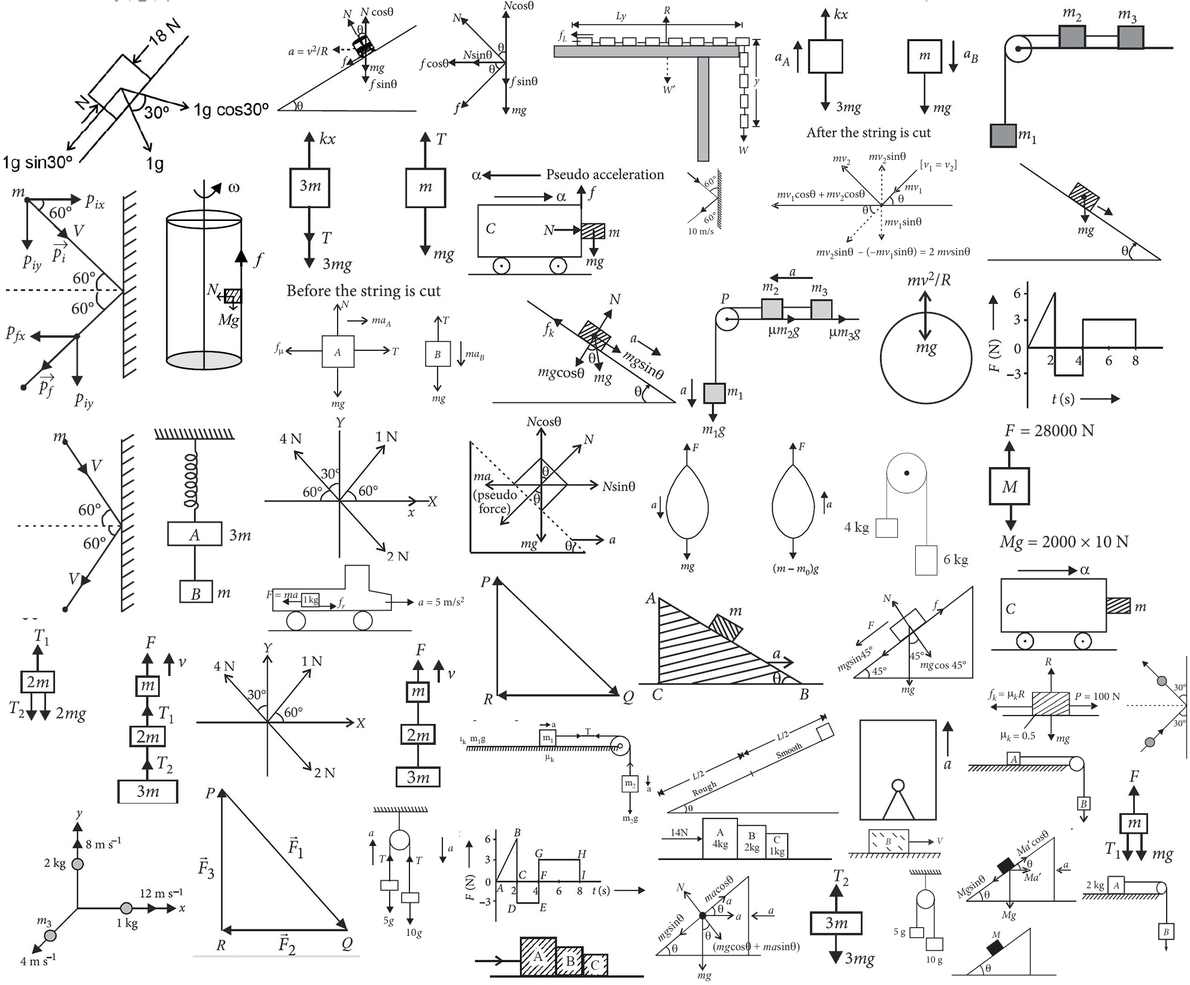
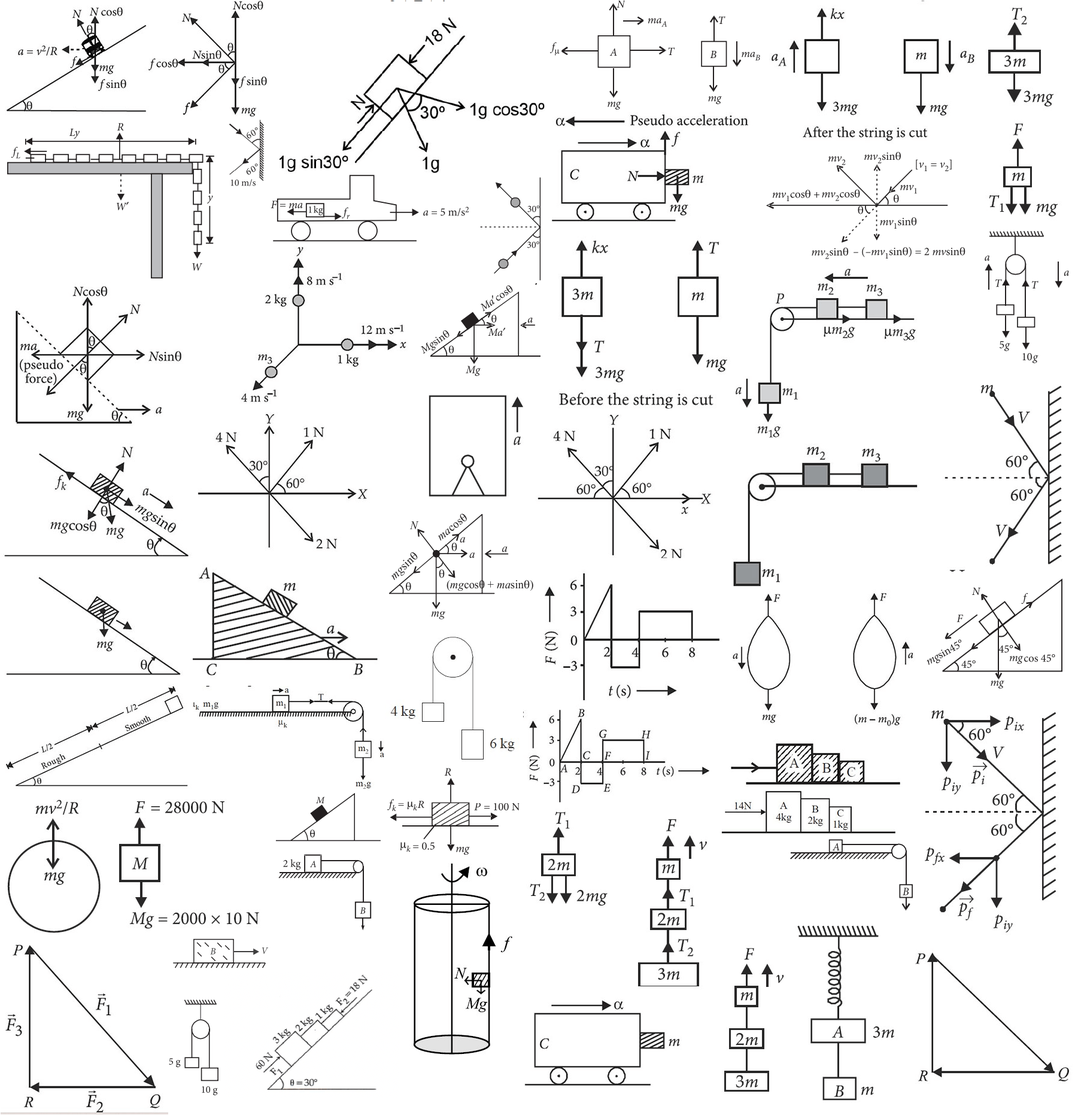
Fixed.

diff --git a/img/medical/neet/phchap/ph_xi_ch4.css b/img/medical/neet/phchap/ph_xi_ch4.css
@@ -8,160 +8,163 @@ Responsive: <div class="yourspritesname"></div>
 
 
 .LOM_33_q {max-width:167px; max-height:62px; }
-.LOM_33_q::after {content: '\00a0';display: inline-block; width:167px; height:62px; background-position: 77.42998352553542% 86.98673404927354%;background-size: 1190.4191616766468% 2653.2258064516127%;background-image: url(ph_xi_ch4.png);padding: 0; }
+.LOM_33_q::after {content: '\00a0';display: inline-block; width:167px; height:62px; background-position: 17.311233885819522% 86.6740699611327%;background-size: 1075.4491017964071% 3004.8387096774195%;background-image: url(ph_xi_ch4.png);padding: 0; }
 div.LOM_33_q::after {max-width:167px; width:100%;height:0;padding: 0 0 37.125748502994014% 0;}
 .LOM_34_s {max-width:113px; max-height:181px; }
-.LOM_34_s::after {content: '\00a0';display: inline-block; width:113px; height:181px; background-position: 99.94666666666667% 74.4535519125683%;background-size: 1759.2920353982302% 908.8397790055249%;background-image: url(ph_xi_ch4.png);padding: 0; }
+.LOM_34_s::after {content: '\00a0';display: inline-block; width:113px; height:181px; background-position: 47.17765894236482% 17.300832342449464%;background-size: 1589.3805309734514% 1029.2817679558011%;background-image: url(ph_xi_ch4.png);padding: 0; }
 div.LOM_34_s::after {max-width:113px; width:100%;height:0;padding: 0 0 160.1769911504425% 0;}
 .LOM_35_s {max-width:251px; max-height:204px; }
-.LOM_35_s::after {content: '\00a0';display: inline-block; width:251px; height:204px; background-position: 62.63672999424295% 99.93060374739764%;background-size: 792.0318725099602% 806.3725490196078%;background-image: url(ph_xi_ch4.png);padding: 0; }
+.LOM_35_s::after {content: '\00a0';display: inline-block; width:251px; height:204px; background-position: 41.61812297734628% 50.39180229053647%;background-size: 715.5378486055777% 913.2352941176471%;background-image: url(ph_xi_ch4.png);padding: 0; }
 div.LOM_35_s::after {max-width:251px; width:100%;height:0;padding: 0 0 81.27490039840637% 0;}
 .LOM_36_s {max-width:169px; max-height:145px; }
-.LOM_36_s::after {content: '\00a0';display: inline-block; width:169px; height:145px; background-position: 98.90049477735019% 96.66666666666667%;background-size: 1176.3313609467455% 1134.4827586206898%;background-image: url(ph_xi_ch4.png);padding: 0; }
+.LOM_36_s::after {content: '\00a0';display: inline-block; width:169px; height:145px; background-position: 28.088506453595574% 82.36321303841676%;background-size: 1062.7218934911243% 1284.8275862068965%;background-image: url(ph_xi_ch4.png);padding: 0; }
 div.LOM_36_s::after {max-width:169px; width:100%;height:0;padding: 0 0 85.79881656804734% 0;}
 .LOM_36_s_1 {max-width:217px; max-height:133px; }
-.LOM_36_s_1::after {content: '\00a0';display: inline-block; width:217px; height:133px; background-position: 91.13495200451722% 82.6058201058201%;background-size: 916.1290322580645% 1236.842105263158%;background-image: url(ph_xi_ch4.png);padding: 0; }
+.LOM_36_s_1::after {content: '\00a0';display: inline-block; width:217px; height:133px; background-position: 83.40721975934136% 80.69364161849711%;background-size: 827.6497695852535% 1400.751879699248%;background-image: url(ph_xi_ch4.png);padding: 0; }
 div.LOM_36_s_1::after {max-width:217px; width:100%;height:0;padding: 0 0 61.29032258064516% 0;}
 .LOM_36_s_2 {max-width:362px; max-height:185px; }
-.LOM_36_s_2::after {content: '\00a0';display: inline-block; width:362px; height:185px; background-position: 27.85977859778598% 34.38356164383562%;background-size: 549.171270718232% 889.1891891891892%;background-image: url(ph_xi_ch4.png);padding: 0; }
+.LOM_36_s_2::after {content: '\00a0';display: inline-block; width:362px; height:185px; background-position: 63.73779637377964% 0.05959475566150179%;background-size: 496.1325966850829% 1007.027027027027%;background-image: url(ph_xi_ch4.png);padding: 0; }
 div.LOM_36_s_2::after {max-width:362px; width:100%;height:0;padding: 0 0 51.10497237569061% 0;}
 .LOM_40_s {max-width:227px; max-height:158px; }
-.LOM_40_s::after {content: '\00a0';display: inline-block; width:227px; height:158px; background-position: 93.46961953435547% 73.30195023537324%;background-size: 875.7709251101321% 1041.139240506329%;background-image: url(ph_xi_ch4.png);padding: 0; }
+.LOM_40_s::after {content: '\00a0';display: inline-block; width:227px; height:158px; background-position: 40.981516889738685% 74.7800586510264%;background-size: 791.1894273127754% 1179.113924050633%;background-image: url(ph_xi_ch4.png);padding: 0; }
 div.LOM_40_s::after {max-width:227px; width:100%;height:0;padding: 0 0 69.60352422907489% 0;}
 .LOM_42_s {max-width:347px; max-height:119px; }
-.LOM_42_s::after {content: '\00a0';display: inline-block; width:347px; height:119px; background-position: 26.691042047531994% 61.730013106159895%;background-size: 572.9106628242075% 1382.3529411764705%;background-image: url(ph_xi_ch4.png);padding: 0; }
+.LOM_42_s::after {content: '\00a0';display: inline-block; width:347px; height:119px; background-position: 30.77984817115252% 16.68577981651376%;background-size: 517.5792507204611% 1565.546218487395%;background-image: url(ph_xi_ch4.png);padding: 0; }
 div.LOM_42_s::after {max-width:347px; width:100%;height:0;padding: 0 0 34.293948126801155% 0;}
 .LOM_45_q {max-width:75px; max-height:123px; }
-.LOM_45_q::after {content: '\00a0';display: inline-block; width:75px; height:123px; background-position: 59.33089388395191% 18.199737187910642%;background-size: 2650.6666666666665% 1337.39837398374%;background-image: url(ph_xi_ch4.png);padding: 0; }
+.LOM_45_q::after {content: '\00a0';display: inline-block; width:75px; height:123px; background-position: 21.499128413712956% 11.264367816091953%;background-size: 2394.6666666666665% 1514.6341463414635%;background-image: url(ph_xi_ch4.png);padding: 0; }
 div.LOM_45_q::after {max-width:75px; width:100%;height:0;padding: 0 0 164% 0;}
 .LOM_45_s {max-width:356px; max-height:193px; }
-.LOM_45_s::after {content: '\00a0';display: inline-block; width:356px; height:193px; background-position: 78.61519607843137% 16.666666666666668%;background-size: 558.4269662921348% 852.3316062176166%;background-image: url(ph_xi_ch4.png);padding: 0; }
+.LOM_45_s::after {content: '\00a0';display: inline-block; width:356px; height:193px; background-position: 88.54166666666667% 14.491017964071856%;background-size: 504.4943820224719% 965.2849740932643%;background-image: url(ph_xi_ch4.png);padding: 0; }
 div.LOM_45_s::after {max-width:356px; width:100%;height:0;padding: 0 0 54.21348314606742% 0;}
 .LOM_46_q {max-width:92px; max-height:183px; }
-.LOM_46_q::after {content: '\00a0';display: inline-block; width:92px; height:183px; background-position: 78.74472573839662% 98.49521203830369%;background-size: 2160.8695652173915% 898.9071038251366%;background-image: url(ph_xi_ch4.png);padding: 0; }
+.LOM_46_q::after {content: '\00a0';display: inline-block; width:92px; height:183px; background-position: 16.549295774647888% 98.69047619047619%;background-size: 1952.1739130434783% 1018.0327868852459%;background-image: url(ph_xi_ch4.png);padding: 0; }
 div.LOM_46_q::after {max-width:92px; width:100%;height:0;padding: 0 0 198.91304347826087% 0;}
 .LOM_46_s {max-width:163px; max-height:248px; }
-.LOM_46_s::after {content: '\00a0';display: inline-block; width:163px; height:248px; background-position: 33.04109589041096% 95.2755905511811%;background-size: 1219.6319018404909% 663.3064516129032%;background-image: url(ph_xi_ch4.png);padding: 0; }
+.LOM_46_s::after {content: '\00a0';display: inline-block; width:163px; height:248px; background-position: 99.93876301285977% 22.910216718266255%;background-size: 1101.840490797546% 751.2096774193549%;background-image: url(ph_xi_ch4.png);padding: 0; }
 div.LOM_46_s::after {max-width:163px; width:100%;height:0;padding: 0 0 152.14723926380367% 0;}
 .LOM_50_q {max-width:181px; max-height:95px; }
-.LOM_50_q::after {content: '\00a0';display: inline-block; width:181px; height:95px; background-position: 87.76978417266187% 99.54838709677419%;background-size: 1098.342541436464% 1731.578947368421%;background-image: url(ph_xi_ch4.png);padding: 0; }
+.LOM_50_q::after {content: '\00a0';display: inline-block; width:181px; height:95px; background-position: 28.29721362229102% 74.60407239819004%;background-size: 992.2651933701658% 1961.0526315789473%;background-image: url(ph_xi_ch4.png);padding: 0; }
 div.LOM_50_q::after {max-width:181px; width:100%;height:0;padding: 0 0 52.48618784530387% 0;}
 .LOM_50_s {max-width:212px; max-height:159px; }
-.LOM_50_s::after {content: '\00a0';display: inline-block; width:212px; height:159px; background-position: 89.3018018018018% 93.0686406460296%;background-size: 937.7358490566038% 1034.5911949685535%;background-image: url(ph_xi_ch4.png);padding: 0; }
+.LOM_50_s::after {content: '\00a0';display: inline-block; width:212px; height:159px; background-position: 43.62373737373738% 27.758215962441316%;background-size: 847.1698113207547% 1171.698113207547%;background-image: url(ph_xi_ch4.png);padding: 0; }
 div.LOM_50_s::after {max-width:212px; width:100%;height:0;padding: 0 0 75% 0;}
 .LOM_61_s {max-width:368px; max-height:275px; }
-.LOM_61_s::after {content: '\00a0';display: inline-block; width:368px; height:275px; background-position: 56.41975308641975% 0.072992700729927%;background-size: 540.2173913043479% 598.1818181818181%;background-image: url(ph_xi_ch4.png);padding: 0; }
+.LOM_61_s::after {content: '\00a0';display: inline-block; width:368px; height:275px; background-position: 0.0700280112044818% 12.34256926952141%;background-size: 488.04347826086956% 677.4545454545455%;background-image: url(ph_xi_ch4.png);padding: 0; }
 div.LOM_61_s::after {max-width:368px; width:100%;height:0;padding: 0 0 74.72826086956522% 0;}
 .LOM_66_s {max-width:257px; max-height:206px; }
-.LOM_66_s::after {content: '\00a0';display: inline-block; width:257px; height:206px; background-position: 80.1848642403235% 67.19944405837387%;background-size: 773.5408560311284% 798.5436893203884%;background-image: url(ph_xi_ch4.png);padding: 0; }
+.LOM_66_s::after {content: '\00a0';display: inline-block; width:257px; height:206px; background-position: 99.87004548408058% 57.694628847314426%;background-size: 698.8326848249027% 904.3689320388349%;background-image: url(ph_xi_ch4.png);padding: 0; }
 div.LOM_66_s::after {max-width:257px; width:100%;height:0;padding: 0 0 80.1556420233463% 0;}
+.neet_re_ph_2022_31 {max-width:292px; max-height:211px; }
+.neet_re_ph_2022_31::after {content: '\00a0';display: inline-block; width:292px; height:211px; background-position: 24.93351063829787% 98.30508474576271%;background-size: 615.068493150685% 882.9383886255924%;background-image: url(ph_xi_ch4.png);padding: 0; }
+div.neet_re_ph_2022_31::after {max-width:292px; width:100%;height:0;padding: 0 0 72.26027397260275% 0;}
 .neet_re_ph_2022_31_sol {max-width:451px; max-height:289px; }
-.neet_re_ph_2022_31_sol::after {content: '\00a0';display: inline-block; width:451px; height:289px; background-position: 0.06506180871828236% 0.07374631268436578%;background-size: 440.79822616407984% 569.204152249135%;background-image: url(ph_xi_ch4.png);padding: 0; }
+.neet_re_ph_2022_31_sol::after {content: '\00a0';display: inline-block; width:451px; height:289px; background-position: 34.34944237918216% 0.06353240152477764%;background-size: 398.22616407982264% 644.636678200692%;background-image: url(ph_xi_ch4.png);padding: 0; }
 div.neet_re_ph_2022_31_sol::after {max-width:451px; width:100%;height:0;padding: 0 0 64.07982261640798% 0;}
 .nt_ph_laws_motion_10 {max-width:320px; max-height:100px; }
-.nt_ph_laws_motion_10::after {content: '\00a0';display: inline-block; width:320px; height:100px; background-position: 45.983213429256594% 99.7411003236246%;background-size: 621.25% 1645%;background-image: url(ph_xi_ch4.png);padding: 0; }
+.nt_ph_laws_motion_10::after {content: '\00a0';display: inline-block; width:320px; height:100px; background-position: 80.96205962059621% 69.14350538854225%;background-size: 561.25% 1863%;background-image: url(ph_xi_ch4.png);padding: 0; }
 div.nt_ph_laws_motion_10::after {max-width:320px; width:100%;height:0;padding: 0 0 31.25% 0;}
 .nt_ph_laws_motion_10_sol {max-width:320px; max-height:75px; }
-.nt_ph_laws_motion_10_sol::after {content: '\00a0';display: inline-block; width:320px; height:75px; background-position: 65.28776978417267% 86.87898089171975%;background-size: 621.25% 2193.3333333333335%;background-image: url(ph_xi_ch4.png);padding: 0; }
+.nt_ph_laws_motion_10_sol::after {content: '\00a0';display: inline-block; width:320px; height:75px; background-position: 80.96205962059621% 73.8255033557047%;background-size: 561.25% 2484%;background-image: url(ph_xi_ch4.png);padding: 0; }
 div.nt_ph_laws_motion_10_sol::after {max-width:320px; width:100%;height:0;padding: 0 0 23.4375% 0;}
 .nt_ph_laws_motion_11 {max-width:320px; max-height:196px; }
-.nt_ph_laws_motion_11::after {content: '\00a0';display: inline-block; width:320px; height:196px; background-position: 98.32134292565948% 17.46031746031746%;background-size: 621.25% 839.2857142857143%;background-image: url(ph_xi_ch4.png);padding: 0; }
+.nt_ph_laws_motion_11::after {content: '\00a0';display: inline-block; width:320px; height:196px; background-position: 0.06775067750677506% 56.68866226754649%;background-size: 561.25% 950.5102040816327%;background-image: url(ph_xi_ch4.png);padding: 0; }
 div.nt_ph_laws_motion_11::after {max-width:320px; width:100%;height:0;padding: 0 0 61.25% 0;}
 .nt_ph_laws_motion_11_sol {max-width:320px; max-height:220px; }
-.nt_ph_laws_motion_11_sol::after {content: '\00a0';display: inline-block; width:320px; height:220px; background-position: 48.92086330935252% 32.8421052631579%;background-size: 621.25% 747.7272727272727%;background-image: url(ph_xi_ch4.png);padding: 0; }
+.nt_ph_laws_motion_11_sol::after {content: '\00a0';display: inline-block; width:320px; height:220px; background-position: 0.06775067750677506% 44.0657334144857%;background-size: 561.25% 846.8181818181819%;background-image: url(ph_xi_ch4.png);padding: 0; }
 div.nt_ph_laws_motion_11_sol::after {max-width:320px; width:100%;height:0;padding: 0 0 68.75% 0;}
 .nt_ph_laws_motion_12_sol {max-width:320px; max-height:172px; }
-.nt_ph_laws_motion_12_sol::after {content: '\00a0';display: inline-block; width:320px; height:172px; background-position: 46.0431654676259% 81.67006109979633%;background-size: 621.25% 956.3953488372093%;background-image: url(ph_xi_ch4.png);padding: 0; }
+.nt_ph_laws_motion_12_sol::after {content: '\00a0';display: inline-block; width:320px; height:172px; background-position: 21.81571815718157% 67.7705499704317%;background-size: 561.25% 1083.139534883721%;background-image: url(ph_xi_ch4.png);padding: 0; }
 div.nt_ph_laws_motion_12_sol::after {max-width:320px; width:100%;height:0;padding: 0 0 53.75% 0;}
 .nt_ph_laws_motion_13 {max-width:320px; max-height:251px; }
-.nt_ph_laws_motion_13::after {content: '\00a0';display: inline-block; width:320px; height:251px; background-position: 98.56115107913669% 0.07173601147776183%;background-size: 621.25% 655.3784860557769%;background-image: url(ph_xi_ch4.png);padding: 0; }
+.nt_ph_laws_motion_13::after {content: '\00a0';display: inline-block; width:320px; height:251px; background-position: 82.38482384823848% 45.47146401985112%;background-size: 561.25% 742.2310756972112%;background-image: url(ph_xi_ch4.png);padding: 0; }
 div.nt_ph_laws_motion_13::after {max-width:320px; width:100%;height:0;padding: 0 0 78.4375% 0;}
 .nt_ph_laws_motion_13_sol {max-width:320px; max-height:296px; }
-.nt_ph_laws_motion_13_sol::after {content: '\00a0';display: inline-block; width:320px; height:296px; background-position: 68.16546762589928% 32.320237212750186%;background-size: 621.25% 555.7432432432432%;background-image: url(ph_xi_ch4.png);padding: 0; }
+.nt_ph_laws_motion_13_sol::after {content: '\00a0';display: inline-block; width:320px; height:296px; background-position: 83.26558265582656% 27.82386726228462%;background-size: 561.25% 629.3918918918919%;background-image: url(ph_xi_ch4.png);padding: 0; }
 div.nt_ph_laws_motion_13_sol::after {max-width:320px; width:100%;height:0;padding: 0 0 92.5% 0;}
 .nt_ph_laws_motion_14 {max-width:320px; max-height:238px; }
-.nt_ph_laws_motion_14::after {content: '\00a0';display: inline-block; width:320px; height:238px; background-position: 98.08153477218225% 31.982942430703623%;background-size: 621.25% 691.1764705882352%;background-image: url(ph_xi_ch4.png);padding: 0; }
+.nt_ph_laws_motion_14::after {content: '\00a0';display: inline-block; width:320px; height:238px; background-position: 60.636856368563684% 57.723076923076924%;background-size: 561.25% 782.7731092436975%;background-image: url(ph_xi_ch4.png);padding: 0; }
 div.nt_ph_laws_motion_14::after {max-width:320px; width:100%;height:0;padding: 0 0 74.375% 0;}
 .nt_ph_laws_motion_14_sol {max-width:320px; max-height:164px; }
-.nt_ph_laws_motion_14_sol::after {content: '\00a0';display: inline-block; width:320px; height:164px; background-position: 45.983213429256594% 92.91019581363943%;background-size: 621.25% 1003.0487804878048%;background-image: url(ph_xi_ch4.png);padding: 0; }
+.nt_ph_laws_motion_14_sol::after {content: '\00a0';display: inline-block; width:320px; height:164px; background-position: 59.21409214092141% 69.27604473219542%;background-size: 561.25% 1135.9756097560976%;background-image: url(ph_xi_ch4.png);padding: 0; }
 div.nt_ph_laws_motion_14_sol::after {max-width:320px; width:100%;height:0;padding: 0 0 51.25% 0;}
 .nt_ph_laws_motion_15_sol {max-width:320px; max-height:233px; }
-.nt_ph_laws_motion_15_sol::after {content: '\00a0';display: inline-block; width:320px; height:233px; background-position: 64.74820143884892% 51.91218130311615%;background-size: 621.25% 706.0085836909872%;background-image: url(ph_xi_ch4.png);padding: 0; }
+.nt_ph_laws_motion_15_sol::after {content: '\00a0';display: inline-block; width:320px; height:233px; background-position: 82.38482384823848% 60.42944785276074%;background-size: 561.25% 799.5708154506437%;background-image: url(ph_xi_ch4.png);padding: 0; }
 div.nt_ph_laws_motion_15_sol::after {max-width:320px; width:100%;height:0;padding: 0 0 72.8125% 0;}
 .nt_ph_laws_motion_16 {max-width:127px; max-height:268px; }
-.nt_ph_laws_motion_16::after {content: '\00a0';display: inline-block; width:127px; height:268px; background-position: 34.39011284255776% 77.12418300653594%;background-size: 1565.3543307086613% 613.8059701492538%;background-image: url(ph_xi_ch4.png);padding: 0; }
+.nt_ph_laws_motion_16::after {content: '\00a0';display: inline-block; width:127px; height:268px; background-position: 71.24026363091671% 98.49529780564264%;background-size: 1414.1732283464567% 695.1492537313433%;background-image: url(ph_xi_ch4.png);padding: 0; }
 div.nt_ph_laws_motion_16::after {max-width:127px; width:100%;height:0;padding: 0 0 211.0236220472441% 0;}
 .nt_ph_laws_motion_16_sol {max-width:150px; max-height:177px; }
-.nt_ph_laws_motion_16_sol::after {content: '\00a0';display: inline-block; width:150px; height:177px; background-position: 99.67355821545158% 86.64850136239782%;background-size: 1325.3333333333333% 929.3785310734463%;background-image: url(ph_xi_ch4.png);padding: 0; }
+.nt_ph_laws_motion_16_sol::after {content: '\00a0';display: inline-block; width:150px; height:177px; background-position: 99.51397326852977% 11.387900355871887%;background-size: 1197.3333333333333% 1052.542372881356%;background-image: url(ph_xi_ch4.png);padding: 0; }
 div.nt_ph_laws_motion_16_sol::after {max-width:150px; width:100%;height:0;padding: 0 0 118% 0;}
 .nt_ph_laws_motion_16_sol_b {max-width:317px; max-height:315px; }
-.nt_ph_laws_motion_16_sol_b::after {content: '\00a0';display: inline-block; width:317px; height:315px; background-position: 0.059844404548174746% 77.89473684210526%;background-size: 627.1293375394322% 522.2222222222222%;background-image: url(ph_xi_ch4.png);padding: 0; }
+.nt_ph_laws_motion_16_sol_b::after {content: '\00a0';display: inline-block; width:317px; height:315px; background-position: 58.891142663962135% 86.69250645994832%;background-size: 566.5615141955836% 591.4285714285714%;background-image: url(ph_xi_ch4.png);padding: 0; }
 div.nt_ph_laws_motion_16_sol_b::after {max-width:317px; width:100%;height:0;padding: 0 0 99.36908517350157% 0;}
 .nt_ph_laws_motion_16_sol_c {max-width:152px; max-height:190px; }
-.nt_ph_laws_motion_16_sol_c::after {content: '\00a0';display: inline-block; width:152px; height:190px; background-position: 72.98474945533769% 98.96907216494846%;background-size: 1307.8947368421052% 865.7894736842105%;background-image: url(ph_xi_ch4.png);padding: 0; }
+.nt_ph_laws_motion_16_sol_c::after {content: '\00a0';display: inline-block; width:152px; height:190px; background-position: 99.63503649635037% 0.05977286312014345%;background-size: 1181.578947368421% 980.5263157894736%;background-image: url(ph_xi_ch4.png);padding: 0; }
 div.nt_ph_laws_motion_16_sol_c::after {max-width:152px; width:100%;height:0;padding: 0 0 125% 0;}
 .nt_ph_laws_motion_17_sol_ {max-width:320px; max-height:268px; }
-.nt_ph_laws_motion_17_sol_::after {content: '\00a0';display: inline-block; width:320px; height:268px; background-position: 0.05995203836930456% 98.18445896877269%;background-size: 621.25% 613.8059701492538%;background-image: url(ph_xi_ch4.png);padding: 0; }
+.nt_ph_laws_motion_17_sol_::after {content: '\00a0';display: inline-block; width:320px; height:268px; background-position: 25.067750677506776% 25.768025078369906%;background-size: 561.25% 695.1492537313433%;background-image: url(ph_xi_ch4.png);padding: 0; }
 div.nt_ph_laws_motion_17_sol_::after {max-width:320px; width:100%;height:0;padding: 0 0 83.75% 0;}
 .nt_ph_laws_motion_18_sol {max-width:320px; max-height:176px; }
-.nt_ph_laws_motion_18_sol::after {content: '\00a0';display: inline-block; width:320px; height:176px; background-position: 65.28776978417267% 80.80326752893124%;background-size: 621.25% 934.6590909090909%;background-image: url(ph_xi_ch4.png);padding: 0; }
+.nt_ph_laws_motion_18_sol::after {content: '\00a0';display: inline-block; width:320px; height:176px; background-position: 0.06775067750677506% 67.69413159454653%;background-size: 561.25% 1058.5227272727273%;background-image: url(ph_xi_ch4.png);padding: 0; }
 div.nt_ph_laws_motion_18_sol::after {max-width:320px; width:100%;height:0;padding: 0 0 55% 0;}
 .nt_ph_laws_motion_1_sol {max-width:198px; max-height:345px; }
-.nt_ph_laws_motion_1_sol::after {content: '\00a0';display: inline-block; width:198px; height:345px; background-position: 14.189944134078212% 22.384615384615383%;background-size: 1004.040404040404% 476.81159420289856%;background-image: url(ph_xi_ch4.png);padding: 0; }
+.nt_ph_laws_motion_1_sol::after {content: '\00a0';display: inline-block; width:198px; height:345px; background-position: 41.80225281602002% 94.46640316205534%;background-size: 907.070707070707% 540%;background-image: url(ph_xi_ch4.png);padding: 0; }
 div.nt_ph_laws_motion_1_sol::after {max-width:198px; width:100%;height:0;padding: 0 0 174.24242424242425% 0;}
 .nt_ph_laws_motion_2 {max-width:280px; max-height:261px; }
-.nt_ph_laws_motion_2::after {content: '\00a0';display: inline-block; width:280px; height:261px; background-position: 46.01873536299766% 67.99132947976878%;background-size: 710% 630.2681992337165%;background-image: url(ph_xi_ch4.png);padding: 0; }
+.nt_ph_laws_motion_2::after {content: '\00a0';display: inline-block; width:280px; height:261px; background-position: 99.80211081794195% 98.0649188514357%;background-size: 641.4285714285714% 713.7931034482758%;background-image: url(ph_xi_ch4.png);padding: 0; }
 div.nt_ph_laws_motion_2::after {max-width:280px; width:100%;height:0;padding: 0 0 93.21428571428571% 0;}
 .nt_ph_laws_motion_2020_1 {max-width:230px; max-height:233px; }
-.nt_ph_laws_motion_2020_1::after {content: '\00a0';display: inline-block; width:230px; height:233px; background-position: 79.69283276450511% 51.91218130311615%;background-size: 864.3478260869565% 706.0085836909872%;background-image: url(ph_xi_ch4.png);padding: 0; }
+.nt_ph_laws_motion_2020_1::after {content: '\00a0';display: inline-block; width:230px; height:233px; background-position: 41.06002554278416% 63.86503067484663%;background-size: 780.8695652173913% 799.5708154506437%;background-image: url(ph_xi_ch4.png);padding: 0; }
 div.nt_ph_laws_motion_2020_1::after {max-width:230px; width:100%;height:0;padding: 0 0 101.30434782608695% 0;}
 .nt_ph_laws_motion_24_sol {max-width:203px; max-height:202px; }
-.nt_ph_laws_motion_24_sol::after {content: '\00a0';display: inline-block; width:203px; height:202px; background-position: 78.99159663865547% 81.35828135828136%;background-size: 979.3103448275862% 814.3564356435644%;background-image: url(ph_xi_ch4.png);padding: 0; }
+.nt_ph_laws_motion_24_sol::after {content: '\00a0';display: inline-block; width:203px; height:202px; background-position: 43.37727558066541% 38.10957254665864%;background-size: 884.7290640394089% 922.2772277227723%;background-image: url(ph_xi_ch4.png);padding: 0; }
 div.nt_ph_laws_motion_24_sol::after {max-width:203px; width:100%;height:0;padding: 0 0 99.50738916256158% 0;}
 .nt_ph_laws_motion_27 {max-width:280px; max-height:158px; }
-.nt_ph_laws_motion_27::after {content: '\00a0';display: inline-block; width:280px; height:158px; background-position: 96.37002341920375% 62.60928043039677%;background-size: 710% 1041.139240506329%;background-image: url(ph_xi_ch4.png);padding: 0; }
+.nt_ph_laws_motion_27::after {content: '\00a0';display: inline-block; width:280px; height:158px; background-position: 57.189973614775724% 97.2434017595308%;background-size: 641.4285714285714% 1179.113924050633%;background-image: url(ph_xi_ch4.png);padding: 0; }
 div.nt_ph_laws_motion_27::after {max-width:280px; width:100%;height:0;padding: 0 0 56.42857142857143% 0;}
 .nt_ph_laws_motion_27_sol {max-width:360px; max-height:190px; }
-.nt_ph_laws_motion_27_sol::after {content: '\00a0';display: inline-block; width:360px; height:190px; background-position: 47.54299754299754% 19.037800687285223%;background-size: 552.2222222222222% 865.7894736842105%;background-image: url(ph_xi_ch4.png);padding: 0; }
+.nt_ph_laws_motion_27_sol::after {content: '\00a0';display: inline-block; width:360px; height:190px; background-position: 63.64902506963789% 11.177525403466825%;background-size: 498.8888888888889% 980.5263157894736%;background-image: url(ph_xi_ch4.png);padding: 0; }
 div.nt_ph_laws_motion_27_sol::after {max-width:360px; width:100%;height:0;padding: 0 0 52.77777777777778% 0;}
 .nt_ph_laws_motion_28_sol {max-width:277px; max-height:241px; }
-.nt_ph_laws_motion_28_sol::after {content: '\00a0';display: inline-block; width:277px; height:241px; background-position: 95.38281706604324% 49.074074074074076%;background-size: 717.6895306859205% 682.5726141078839%;background-image: url(ph_xi_ch4.png);padding: 0; }
+.nt_ph_laws_motion_28_sol::after {content: '\00a0';display: inline-block; width:277px; height:241px; background-position: 11.784068466096116% 81.3193588162762%;background-size: 648.3754512635379% 773.0290456431535%;background-image: url(ph_xi_ch4.png);padding: 0; }
 div.nt_ph_laws_motion_28_sol::after {max-width:277px; width:100%;height:0;padding: 0 0 87.00361010830325% 0;}
 .nt_ph_laws_motion_2_sol {max-width:280px; max-height:291px; }
-.nt_ph_laws_motion_2_sol::after {content: '\00a0';display: inline-block; width:280px; height:291px; background-position: 18.852459016393443% 96.60265878877401%;background-size: 710% 565.2920962199313%;background-image: url(ph_xi_ch4.png);padding: 0; }
+.nt_ph_laws_motion_2_sol::after {content: '\00a0';display: inline-block; width:280px; height:291px; background-position: 0.06596306068601583% 99.93638676844783%;background-size: 641.4285714285714% 640.2061855670103%;background-image: url(ph_xi_ch4.png);padding: 0; }
 div.nt_ph_laws_motion_2_sol::after {max-width:280px; width:100%;height:0;padding: 0 0 103.92857142857143% 0;}
 .nt_ph_laws_motion_30_sol {max-width:177px; max-height:250px; }
-.nt_ph_laws_motion_30_sol::after {content: '\00a0';display: inline-block; width:177px; height:250px; background-position: 80.50800662617338% 31.25448028673835%;background-size: 1123.1638418079096% 658%;background-image: url(ph_xi_ch4.png);padding: 0; }
+.nt_ph_laws_motion_30_sol::after {content: '\00a0';display: inline-block; width:177px; height:250px; background-position: 0.06176652254478073% 81.77309361438314%;background-size: 1014.6892655367232% 745.2%;background-image: url(ph_xi_ch4.png);padding: 0; }
 div.nt_ph_laws_motion_30_sol::after {max-width:177px; width:100%;height:0;padding: 0 0 141.24293785310735% 0;}
 .nt_ph_laws_motion_31 {max-width:320px; max-height:245px; }
-.nt_ph_laws_motion_31::after {content: '\00a0';display: inline-block; width:320px; height:245px; background-position: 19.124700239808153% 75.85714285714286%;background-size: 621.25% 671.4285714285714%;background-image: url(ph_xi_ch4.png);padding: 0; }
+.nt_ph_laws_motion_31::after {content: '\00a0';display: inline-block; width:320px; height:245px; background-position: 21.81571815718157% 42.027194066749075%;background-size: 561.25% 760.4081632653061%;background-image: url(ph_xi_ch4.png);padding: 0; }
 div.nt_ph_laws_motion_31::after {max-width:320px; width:100%;height:0;padding: 0 0 76.5625% 0;}
 .nt_ph_laws_motion_31_sol {max-width:320px; max-height:253px; }
-.nt_ph_laws_motion_31_sol::after {content: '\00a0';display: inline-block; width:320px; height:253px; background-position: 26.258992805755394% 49.42528735632184%;background-size: 621.25% 650.197628458498%;background-image: url(ph_xi_ch4.png);padding: 0; }
+.nt_ph_laws_motion_31_sol::after {content: '\00a0';display: inline-block; width:320px; height:253px; background-position: 60.636856368563684% 42.484472049689444%;background-size: 561.25% 736.3636363636364%;background-image: url(ph_xi_ch4.png);padding: 0; }
 div.nt_ph_laws_motion_31_sol::after {max-width:320px; width:100%;height:0;padding: 0 0 79.0625% 0;}
 .nt_ph_laws_motion_5 {max-width:320px; max-height:219px; }
-.nt_ph_laws_motion_5::after {content: '\00a0';display: inline-block; width:320px; height:219px; background-position: 63.96882494004796% 67.81206171107995%;background-size: 621.25% 751.1415525114155%;background-image: url(ph_xi_ch4.png);padding: 0; }
+.nt_ph_laws_motion_5::after {content: '\00a0';display: inline-block; width:320px; height:219px; background-position: 21.81571815718157% 56.32603406326034%;background-size: 561.25% 850.6849315068494%;background-image: url(ph_xi_ch4.png);padding: 0; }
 div.nt_ph_laws_motion_5::after {max-width:320px; width:100%;height:0;padding: 0 0 68.4375% 0;}
 .nt_ph_laws_motion_5_sol {max-width:320px; max-height:251px; }
-.nt_ph_laws_motion_5_sol::after {content: '\00a0';display: inline-block; width:320px; height:251px; background-position: 45.50359712230216% 49.42611190817791%;background-size: 621.25% 655.3784860557769%;background-image: url(ph_xi_ch4.png);padding: 0; }
+.nt_ph_laws_motion_5_sol::after {content: '\00a0';display: inline-block; width:320px; height:251px; background-position: 0.06775067750677506% 29.280397022332505%;background-size: 561.25% 742.2310756972112%;background-image: url(ph_xi_ch4.png);padding: 0; }
 div.nt_ph_laws_motion_5_sol::after {max-width:320px; width:100%;height:0;padding: 0 0 78.4375% 0;}
 .nt_ph_laws_motion_6 {max-width:195px; max-height:323px; }
-.nt_ph_laws_motion_6::after {content: '\00a0';display: inline-block; width:195px; height:323px; background-position: 13.496932515337424% 52.87443267776097%;background-size: 1019.4871794871794% 509.2879256965944%;background-image: url(ph_xi_ch4.png);padding: 0; }
+.nt_ph_laws_motion_6::after {content: '\00a0';display: inline-block; width:195px; height:323px; background-position: 82.26108682073703% 99.35064935064935%;background-size: 921.025641025641% 576.7801857585139%;background-image: url(ph_xi_ch4.png);padding: 0; }
 div.nt_ph_laws_motion_6::after {max-width:195px; width:100%;height:0;padding: 0 0 165.64102564102564% 0;}
 .nt_ph_laws_motion_6_sol_a {max-width:320px; max-height:305px; }
-.nt_ph_laws_motion_6_sol_a::after {content: '\00a0';display: inline-block; width:320px; height:305px; background-position: 27.158273381294965% 14.626865671641792%;background-size: 621.25% 539.344262295082%;background-image: url(ph_xi_ch4.png);padding: 0; }
+.nt_ph_laws_motion_6_sol_a::after {content: '\00a0';display: inline-block; width:320px; height:305px; background-position: 61.517615176151764% 24.261874197689345%;background-size: 561.25% 610.8196721311475%;background-image: url(ph_xi_ch4.png);padding: 0; }
 div.nt_ph_laws_motion_6_sol_a::after {max-width:320px; width:100%;height:0;padding: 0 0 95.3125% 0;}
 .nt_ph_laws_motion_6_sol_b {max-width:360px; max-height:240px; }
-.nt_ph_laws_motion_6_sol_b::after {content: '\00a0';display: inline-block; width:360px; height:240px; background-position: 78.80835380835381% 0.0711743772241993%;background-size: 552.2222222222222% 685.4166666666666%;background-image: url(ph_xi_ch4.png);padding: 0; }
+.nt_ph_laws_motion_6_sol_b::after {content: '\00a0';display: inline-block; width:360px; height:240px; background-position: 88.9275766016713% 0.061614294516327786%;background-size: 498.8888888888889% 776.25%;background-image: url(ph_xi_ch4.png);padding: 0; }
 div.nt_ph_laws_motion_6_sol_b::after {max-width:360px; width:100%;height:0;padding: 0 0 66.66666666666667% 0;}
 .nt_ph_laws_motion_8 {max-width:240px; max-height:336px; }
-.nt_ph_laws_motion_8::after {content: '\00a0';display: inline-block; width:240px; height:336px; background-position: 0.057208237986270026% 53.39954163483575%;background-size: 828.3333333333334% 489.5833333333333%;background-image: url(ph_xi_ch4.png);padding: 0; }
+.nt_ph_laws_motion_8::after {content: '\00a0';display: inline-block; width:240px; height:336px; background-position: 99.61439588688945% 40.537000654878845%;background-size: 748.3333333333334% 554.4642857142857%;background-image: url(ph_xi_ch4.png);padding: 0; }
 div.nt_ph_laws_motion_8::after {max-width:240px; width:100%;height:0;padding: 0 0 140% 0;}
 .nt_ph_laws_motion_8_sol {max-width:252px; max-height:407px; }
-.nt_ph_laws_motion_8_sol::after {content: '\00a0';display: inline-block; width:252px; height:407px; background-position: 0.0576036866359447% 23.505654281098547%;background-size: 788.8888888888889% 404.1769041769042%;background-image: url(ph_xi_ch4.png);padding: 0; }
+.nt_ph_laws_motion_8_sol::after {content: '\00a0';display: inline-block; width:252px; height:407px; background-position: 99.54663212435233% 79.87637362637362%;background-size: 712.6984126984127% 457.73955773955777%;background-image: url(ph_xi_ch4.png);padding: 0; }
 div.nt_ph_laws_motion_8_sol::after {max-width:252px; width:100%;height:0;padding: 0 0 161.5079365079365% 0;}
 .nt_ph_laws_motion_9_sol {max-width:460px; max-height:194px; }
-.nt_ph_laws_motion_9_sol::after {content: '\00a0';display: inline-block; width:460px; height:194px; background-position: 29.646596858638745% 0.06891798759476224%;background-size: 432.17391304347825% 847.9381443298969%;background-image: url(ph_xi_ch4.png);padding: 0; }
+.nt_ph_laws_motion_9_sol::after {content: '\00a0';display: inline-block; width:460px; height:194px; background-position: 0.0748502994011976% 0.05991611743559017%;background-size: 390.4347826086956% 960.3092783505155%;background-image: url(ph_xi_ch4.png);padding: 0; }
 div.nt_ph_laws_motion_9_sol::after {max-width:460px; width:100%;height:0;padding: 0 0 42.17391304347826% 0;}
 
-/* $TexturePacker:SmartUpdate:2b77855dc8469acc30bda89b0adb95f3:e56961d4026c27d8560805c22d85d18b:a87fe0afa0d8b033f076d74d403810c8$ */
+/* $TexturePacker:SmartUpdate:37b5706b6d9474fe8da09f895e802753:92c17ff5267c52b9c6081460fcf57316:a87fe0afa0d8b033f076d74d403810c8$ */
